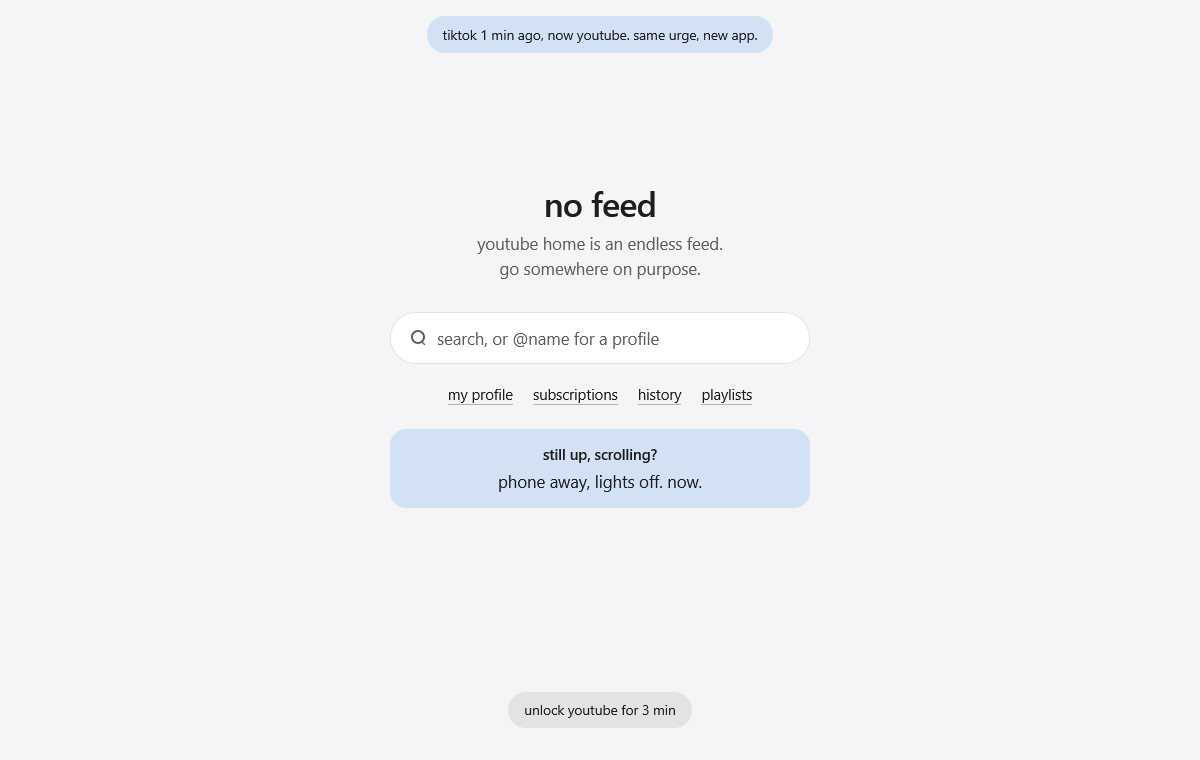
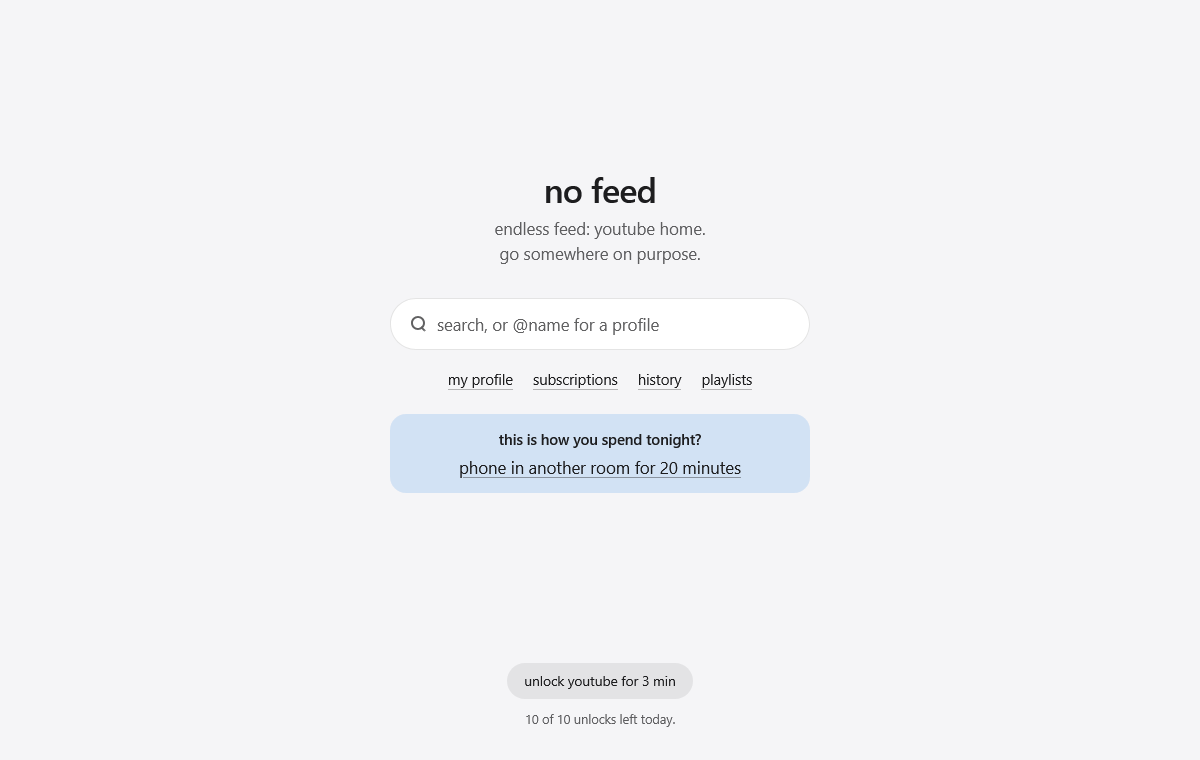
docs: new screenshots, real firefox run notes

diff --git a/CLAUDE.md b/CLAUDE.md
@@ -41,5 +41,6 @@ firefox mv2 extension: content scripts block the feeds; the background blocks po
 - the version lives only in `manifest.json` (package.json has none on purpose). a push to main whose version has no `v<version>` tag gets signed (unlisted) and released by `.github/workflows/build.yml`, with its `## <version>` section of CHANGELOG.md as notes; the build fails before signing when that section is missing. what stays out of the package: `webExt.ignoreFiles` in package.json, read by every web-ext command. every action in the release job is pinned to a commit (checkout, setup-node, action-gh-release): that job holds the amo keys and a write token, and a release now reaches every install. no dependabot, so bump the pins by hand (`gh api repos/<owner>/<repo>/git/ref/tags/<tag>` gives the commit); its checkout keeps no token on disk (`persist-credentials: false`) because web-ext's npm tree runs there. the check job (read token, no secrets) stays on tags.
 - updates: releases are signed unlisted, and amo's update check never offers unlisted versions, so `update_url` points at `releases/latest/download/updates.json`, which the release job writes from manifest.json before signing (in `$RUNNER_TEMP`: web-ext would pack it from the source folder) and uploads with the .xpi; action-gh-release v3 publishes its draft only after all uploads, so `latest` never lacks it. an installed copy only ever checks the update_url its own version shipped with (extensionworkshop.com updating-your-extension, 2026-10), so that address is a contract the release job checks against `$GITHUB_SERVER_URL/$GITHUB_REPOSITORY`. firefox (source at bf754717, 2026-10) follows github's two 302s for the manifest and the .xpi (`extensions.update.requireBuiltInCerts` and `extensions.install.requireBuiltInCerts` are off on release builds), ignores the content type, needs an https `update_link` and a signed .xpi whose version equals the entry's, and reads the minimum version only under `applications`, not `browser_specific_settings` (ublock origin's updates.json uses the other key, and its minimum is ignored). the update manifest has no android entry, so `gecko_android.strict_min_version` must not rise above gecko's. `web-ext lint` needs `--self-hosted`, or the update_url is an error (amo passes the flag itself for unlisted uploads). 0.5.0 to 0.7.0 have no update_url; an update that adds a warned permission waits for the user's ok.
 - design checks: a throwaway harness serves the real files over localhost (browser automation refuses `file:` urls), stubbing `browser.*`, and `window.wrappedJSObject = window` plus an `exportFunction` that assigns: content.js wraps page methods at startup and dies without them.
-- unverified: tiktok `/friends`; threads `/following`; logged in: linkedin's two feed tabs, facebook's language hosts, x communities (x announced a shutdown for 2026-05-30, but they still served in 2026-10), youtube's explore pages, threads' `/for_you` links; reddit `/news` and `/t/` (reddit refuses scripted reads; `/t/` was archived as served through 2026-08). only run in the fake dom of the tests, never in a real firefox (as of 0.8.0): `window.stop()` at document_start, the feed-link click rewrite, the history-change reports, the porn redirects and adult labels, the chime from the background page, the paste guard against a real right-click extension, the chain in x's phone video viewer (`?currentTweet=`, read only on a `/status/ID/mediaviewer` path), the day's time notes, judging at popstate, the viewport meta, the time-left pill, the private-trail messages, `data-live`, the click lookup through `composedPath()`, the theater cookie's undo, the open-tab check, `loadReplace` and `&skip`, the translate decode, the webm clips, the porn page's hidden-tab wait, self-hosted updates (the update check and the .xpi download through github's redirects rest on firefox source and a curl of the redirect chain).
+- the fake dom can't show what firefox's xray does to a content script: `u.searchParams.keys()` is not iterable there (`forEach` works), which made `cleanLink` throw on every link with a query, and exported wrappers pass that throw to the page as `InvalidStateError: An exception was thrown`. a real run: node 24's `WebSocket` to `firefox --headless --remote-debugging-port N -remote-allow-system-access`, webdriver bidi `session.new`, `webExtension.install` with a path; a fixed `extensions.webextensions.uuids` in the throwaway profile's `user.js` names the extension pages. bidi refuses `setViewport` and `captureScreenshot` on `moz-extension:` pages, so those go through the design-check harness instead.
+- unverified: tiktok `/friends`; threads `/following`; logged in: linkedin's two feed tabs, facebook's language hosts, x communities (x announced a shutdown for 2026-05-30, but they still served in 2026-10), youtube's explore pages, threads' `/for_you` links; reddit `/news` and `/t/` (reddit refuses scripted reads; `/t/` was archived as served through 2026-08). run in a real headless firefox, logged out (158, 2026-10-30): the first-run tab, `window.stop()` at document_start, the closed root (`host.shadowRoot === null`, styles applied, page text clean) on youtube, reddit, tiktok and instagram, the pause sheet, the porn redirects (`.xxx`, a media host), a webm clip playing, link cleaning and the clipboard wrapper. only in the fake dom of the tests: the feed-link click rewrite, the history-change reports, adult labels, the `t.co` swap, the chime from the background page, the paste guard against a real right-click extension, the chain in x's phone video viewer (`?currentTweet=`, read only on a `/status/ID/mediaviewer` path), the day's time notes, judging at popstate, the viewport meta, the time-left pill, the private-trail messages, the click lookup through `composedPath()`, the theater cookie's undo, the open-tab check, `loadReplace` and `&skip`, the translate decode, the porn page's hidden-tab wait, everything on android, a page whose style csp has no `'unsafe-inline'` (none of the sites sends one, 2026-10), self-hosted updates (the update check and the .xpi download through github's redirects rest on firefox source and a curl of the redirect chain).
 - the block screen sits in a closed shadow root on `#dis2tract-host`, so site scripts can't read the mirror (other sites visited, with times), the day's time, the note or the handle after an spa navigation. page and manifest css stop at the root, so its stylesheet is text in `src/overlay.css.js` (the only way to have it at document_start), set with `style.textContent` from the content script: only that passes a strict page csp (`OverridesCSP` in nsStyleUtil::CSPAllowsInlineStyle; `append(text)` would not; 2026-10). what must sit in the page is `css/page.css`: the scroll lock, the host, the time-left pill, which holds nothing private. theme colors reach in by inheritance: base variables on `:host`/`:root` (a rule on the host from outside wins over `:host`), derived ones on `#dis2tract`, so painted colors recompute them; `data-live` is on the host. inside the root, `document.activeElement` and a window listener's `e.target` are the host: use `shadow.activeElement`. known limits: a hidden tab (picture-in-picture, background audio) spends no unlock time, bounded by the 23-minute expiry; two windows of one unlocked site can lose a 5 s chunk of spent time to a get/set race.
